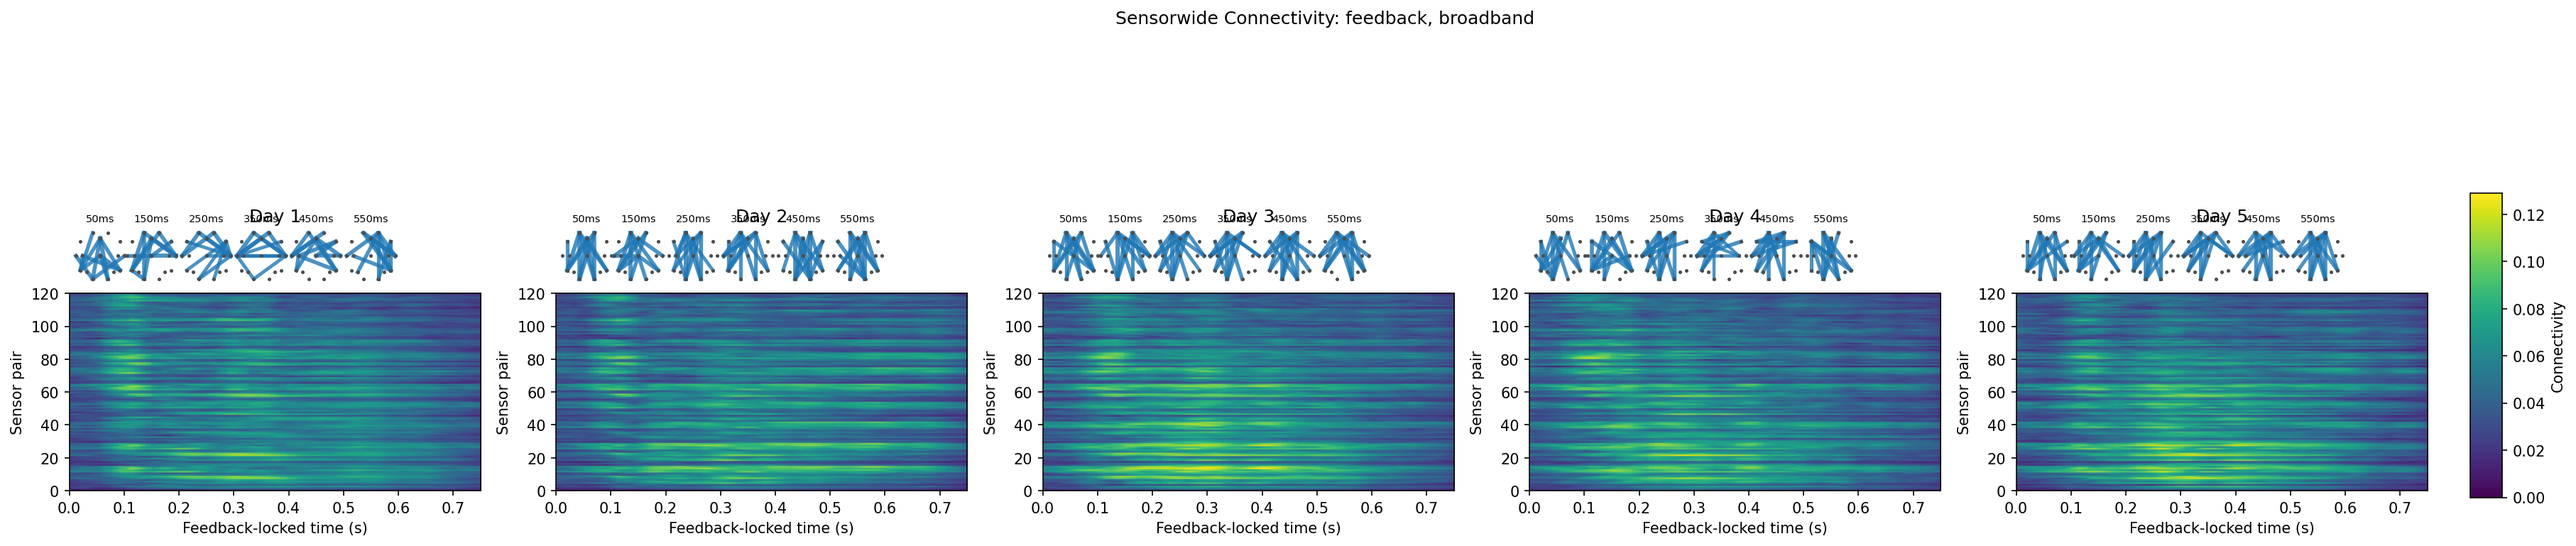
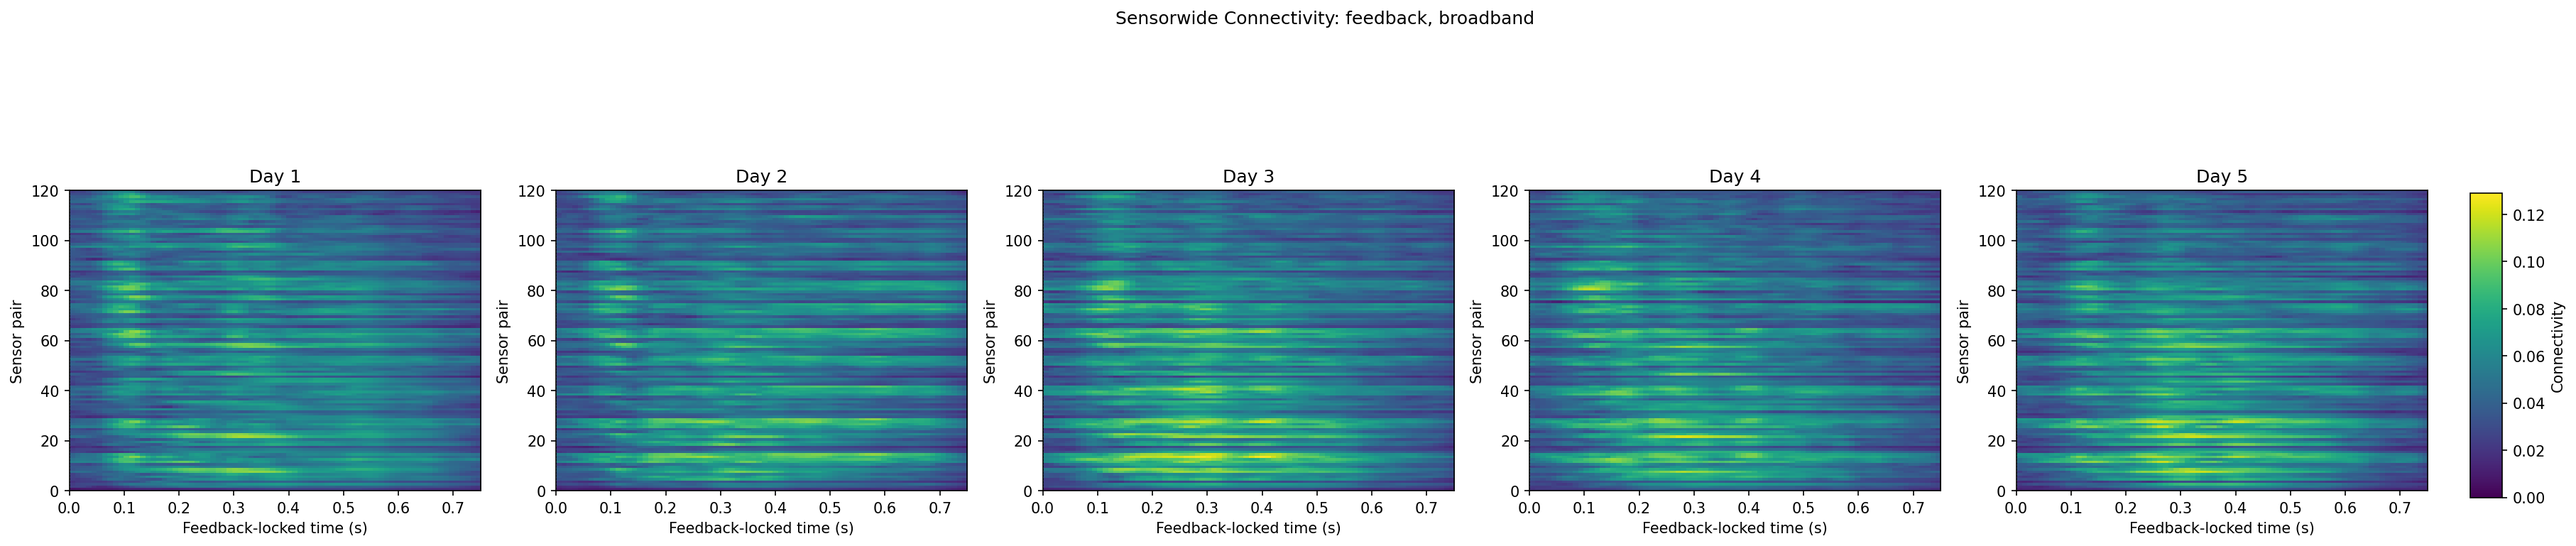
fancy connect

diff --git a/code/connect_sensorwide_figure.py b/code/connect_sensorwide_figure.py
@@ -19,10 +19,74 @@ import pandas as pd
 from connect_sensorwide_analysis import BANDS, CHANNEL_SUBSET, FIGURES_DIR, OUTPUT_DIR
 
 SNAP_TIMES_SEC = [0.05, 0.15, 0.25, 0.35, 0.45, 0.55]
-ACTIVE_PAIR_PCTS = [0.05, 0.10, 0.20, 0.30]
+ACTIVE_PAIR_PCTS = [0.05, 0.10, 0.20, 0.30, 0.80]
 
 
-def plot_sensor_pair_carpet(day_data, pair_idx, lock_name, band_name, figures_dir, ch_xy):
+def get_day_colors(days):
+    colors = plt.get_cmap("viridis")(np.linspace(0.15, 0.85, len(days)))
+    day_colors = {}
+    for idx, day in enumerate(days):
+        day_colors[day] = colors[idx]
+    return day_colors
+
+
+def get_active_pair_idx_by_pct(carpets, n_pairs):
+    active_pair_idx_by_pct = {}
+    active_pair_scores = []
+    days = sorted(carpets.keys())
+    for pair_i in range(n_pairs):
+        vals = []
+        for day in days:
+            _times, d = carpets[day]
+            for val in d[pair_i, :]:
+                if np.isfinite(val):
+                    vals.append(float(val))
+        score = np.nan
+        if len(vals) > 0:
+            vals_arr = np.asarray(vals, dtype=float)
+            score = float(np.nanmax(vals_arr) - np.nanmin(vals_arr))
+        active_pair_scores.append(score)
+
+    finite_scores = np.asarray(active_pair_scores, dtype=float)
+    finite_scores = finite_scores[np.isfinite(finite_scores)]
+    if len(finite_scores) == 0:
+        raise ValueError("No finite sensor-pair modulation scores for active rows")
+
+    for pct in ACTIVE_PAIR_PCTS:
+        top_k = max(1, int(np.ceil(pct * n_pairs)))
+        threshold = float(np.sort(finite_scores)[-top_k])
+        active_pair_idx = []
+        for pair_i, score in enumerate(active_pair_scores):
+            if np.isfinite(score) and score >= threshold:
+                active_pair_idx.append(int(pair_i))
+        if len(active_pair_idx) == 0:
+            raise ValueError(f"No active sensor-pairs selected for threshold: {pct}")
+        active_pair_idx_by_pct[pct] = active_pair_idx
+
+    return active_pair_idx_by_pct
+
+
+def get_active_ylim(carpets, active_pair_idx_by_pct):
+    active_vals = []
+    for pct in ACTIVE_PAIR_PCTS:
+        active_pair_idx = active_pair_idx_by_pct[pct]
+        for day in sorted(carpets.keys()):
+            _times, d = carpets[day]
+            active_mean = np.nanmean(d[active_pair_idx, :], axis=0)
+            for val in active_mean:
+                if np.isfinite(val):
+                    active_vals.append(float(val))
+    if len(active_vals) == 0:
+        return None
+    y_min = float(np.nanmin(active_vals))
+    y_max = float(np.nanmax(active_vals))
+    y_pad = 0.08 * max(y_max - y_min, 1e-12)
+    return (y_min - y_pad, y_max + y_pad)
+
+
+def plot_sensor_pair_carpet(
+    day_data, pair_idx, lock_name, band_name, figures_dir, ch_xy
+):
     days = sorted(day_data.keys())
     n_days = len(days)
     n_pairs = len(pair_idx)
@@ -42,7 +106,8 @@ def plot_sensor_pair_carpet(day_data, pair_idx, lock_name, band_name, figures_di
 
     if not carpets:
         raise ValueError(
-            f"No sensorwide carpet data available for lock={lock_name}, band={band_name}"
+            "No sensorwide carpet data available for "
+            f"lock={lock_name}, band={band_name}"
         )
 
     vmax_candidates = []
@@ -52,39 +117,9 @@ def plot_sensor_pair_carpet(day_data, pair_idx, lock_name, band_name, figures_di
     vmax = max(vmax_candidates) if vmax_candidates else 1e-12
     vmax = max(vmax, 1e-12)
 
-    inset_top_k = max(1, int(np.ceil(0.10 * n_pairs)))
-
     active_pair_idx_by_pct = {}
-    active_pair_scores = []
     if add_active_row:
-        for pair_i in range(n_pairs):
-            vals = []
-            for day in days:
-                _times, d = carpets[day]
-                for val in d[pair_i, :]:
-                    if np.isfinite(val):
-                        vals.append(float(val))
-            score = np.nan
-            if len(vals) > 0:
-                vals_arr = np.asarray(vals, dtype=float)
-                score = float(np.nanmax(vals_arr) - np.nanmin(vals_arr))
-            active_pair_scores.append(score)
-        finite_scores = np.asarray(active_pair_scores, dtype=float)
-        finite_scores = finite_scores[np.isfinite(finite_scores)]
-        if len(finite_scores) == 0:
-            raise ValueError("No finite sensor-pair modulation scores for active row")
-        for pct in ACTIVE_PAIR_PCTS:
-            top_k = max(1, int(np.ceil(pct * n_pairs)))
-            threshold = float(np.sort(finite_scores)[-top_k])
-            active_pair_idx = []
-            for pair_i, score in enumerate(active_pair_scores):
-                if np.isfinite(score) and score >= threshold:
-                    active_pair_idx.append(int(pair_i))
-            if len(active_pair_idx) == 0:
-                raise ValueError(
-                    f"No active sensor-pairs selected for broadband stim row: {pct}"
-                )
-            active_pair_idx_by_pct[pct] = active_pair_idx
+        active_pair_idx_by_pct = get_active_pair_idx_by_pct(carpets, n_pairs)
 
     n_rows = 1
     height = 5.2
@@ -108,20 +143,7 @@ def plot_sensor_pair_carpet(day_data, pair_idx, lock_name, band_name, figures_di
     im = None
     active_ylim = None
     if add_active_row:
-        active_vals = []
-        for pct in ACTIVE_PAIR_PCTS:
-            active_pair_idx = active_pair_idx_by_pct[pct]
-            for day in days:
-                _times, d = carpets[day]
-                active_mean = np.nanmean(d[active_pair_idx, :], axis=0)
-                for val in active_mean:
-                    if np.isfinite(val):
-                        active_vals.append(float(val))
-        if len(active_vals) > 0:
-            y_min = float(np.nanmin(active_vals))
-            y_max = float(np.nanmax(active_vals))
-            y_pad = 0.08 * max(y_max - y_min, 1e-12)
-            active_ylim = (y_min - y_pad, y_max + y_pad)
+        active_ylim = get_active_ylim(carpets, active_pair_idx_by_pct)
 
     for col, day in enumerate(days):
         ax = axes[0, col]
@@ -142,47 +164,6 @@ def plot_sensor_pair_carpet(day_data, pair_idx, lock_name, band_name, figures_di
         ax.set_xlabel(f"{lock_name.capitalize()}-locked time (s)")
         ax.set_ylabel("Sensor pair")
         ax.set_title(f"Day {day}")
-
-        mats = day_data[day]["mats"]
-        for snap_t in SNAP_TIMES_SEC:
-            if snap_t < x_min or snap_t > x_max:
-                continue
-            t_idx = int(np.argmin(np.abs(times - snap_t)))
-            mat = mats[t_idx]
-            pair_vals_list = []
-            for i, j in pair_idx:
-                pair_vals_list.append(mat[i, j])
-            pair_vals = np.array(pair_vals_list, dtype=float)
-
-            x_frac = (snap_t - x_min) / (x_max - x_min)
-            width = 0.13
-            inset = ax.inset_axes(
-                [max(0.01, min(0.99 - width, x_frac - width / 2.0)), 1.04, width, 0.30],
-                transform=ax.transAxes,
-            )
-
-            inset.scatter(ch_xy[:, 0], ch_xy[:, 1], s=6, color="0.3", zorder=3, linewidths=0)
-
-            finite_vals = pair_vals[np.isfinite(pair_vals)]
-            if len(finite_vals) >= inset_top_k:
-                threshold = np.sort(finite_vals)[-inset_top_k]
-                max_val = float(finite_vals.max())
-                if max_val > 0:
-                    for (pi, pj), pv in zip(pair_idx, pair_vals):
-                        if np.isfinite(pv) and pv >= threshold:
-                            lw = 0.4 + 2.5 * (pv / max_val)
-                            inset.plot(
-                                [ch_xy[pi, 0], ch_xy[pj, 0]],
-                                [ch_xy[pi, 1], ch_xy[pj, 1]],
-                                color="tab:blue",
-                                linewidth=lw,
-                                alpha=0.8,
-                                zorder=2,
-                            )
-
-            inset.set_aspect("equal")
-            inset.axis("off")
-            inset.set_title(f"{int(snap_t * 1000)}ms", fontsize=7)
 
         if add_active_row:
             for row_i, pct in enumerate(ACTIVE_PAIR_PCTS, start=1):
@@ -222,6 +203,72 @@ def plot_sensor_pair_carpet(day_data, pair_idx, lock_name, band_name, figures_di
     cax = fig.add_axes([0.93, cbar_bottom, 0.012, cbar_height])
     fig.colorbar(im, cax=cax, label="Connectivity")
     fig_path = figures_dir / f"sensorwide_carpet_{lock_name}_{band_name}.png"
+    fig.savefig(fig_path, dpi=150, bbox_inches="tight")
+    plt.close(fig)
+    return fig_path
+
+
+def plot_active_pair_overlay(day_data, pair_idx, lock_name, band_name, figures_dir):
+    days = sorted(day_data.keys())
+    n_pairs = len(pair_idx)
+    carpets = {}
+    for day in days:
+        mats = day_data[day]["mats"]
+        times = day_data[day]["times"]
+        vals = []
+        for mat in mats:
+            pair_vals = []
+            for i, j in pair_idx:
+                pair_vals.append(mat[i, j])
+            vals.append(pair_vals)
+        carpets[day] = (times, np.asarray(vals).T)
+
+    active_pair_idx_by_pct = get_active_pair_idx_by_pct(carpets, n_pairs)
+    active_ylim = get_active_ylim(carpets, active_pair_idx_by_pct)
+    day_colors = get_day_colors(days)
+
+    fig, axes = plt.subplots(
+        1,
+        len(ACTIVE_PAIR_PCTS),
+        figsize=(4.0 * len(ACTIVE_PAIR_PCTS), 3.8),
+        sharey=True,
+        squeeze=False,
+    )
+    for col, pct in enumerate(ACTIVE_PAIR_PCTS):
+        ax = axes[0, col]
+        active_pair_idx = active_pair_idx_by_pct[pct]
+        for day in days:
+            times, d = carpets[day]
+            active_mean = np.nanmean(d[active_pair_idx, :], axis=0)
+            ax.plot(
+                times,
+                active_mean,
+                color=day_colors[day],
+                linewidth=1.8,
+                label=f"D{day}",
+            )
+        pct_label = int(round(pct * 100))
+        ax.set_title(f"Top {pct_label}% (n={len(active_pair_idx)})")
+        ax.set_xlabel(f"{lock_name.capitalize()}-locked time (s)")
+        ax.axvline(0.0, color="0.55", linestyle=":", linewidth=0.8)
+        if active_ylim is not None:
+            ax.set_ylim(active_ylim)
+        ax.grid(alpha=0.25)
+        if col == 0:
+            ax.set_ylabel("Connectivity")
+            ax.legend(frameon=False, fontsize=8, loc="best")
+
+    fig.suptitle(f"Active Sensor-Pair Connectivity: {lock_name}, {band_name}")
+    fig.subplots_adjust(
+        top=0.82,
+        bottom=0.18,
+        left=0.06,
+        right=0.99,
+        wspace=0.16,
+    )
+    fig_path = figures_dir / (
+        f"sensorwide_active_pair_overlay_{lock_name}_{band_name}.png"
+    )
     fig.savefig(fig_path, dpi=150, bbox_inches="tight")
     plt.close(fig)
     return fig_path
@@ -300,11 +347,19 @@ def save_fig_sensorwide_connectivity(
                         mat[j, i] = float(row["conn_val"])
                     np.fill_diagonal(mat, 0.0)
                     mats.append(mat)
-                day_data[day] = {"times": np.array(times_this, dtype=float), "mats": mats}
+                day_data[day] = {
+                    "times": np.array(times_this, dtype=float),
+                    "mats": mats,
+                }
             fig_path = plot_sensor_pair_carpet(
                 day_data, pair_idx, lock_name, band_name, figures_dir, ch_xy
             )
             figure_paths.append(fig_path)
+            if lock_name == "stim" and band_name == "broadband":
+                fig_path = plot_active_pair_overlay(
+                    day_data, pair_idx, lock_name, band_name, figures_dir
+                )
+                figure_paths.append(fig_path)
     return {"figure_paths": figure_paths}
 
 
